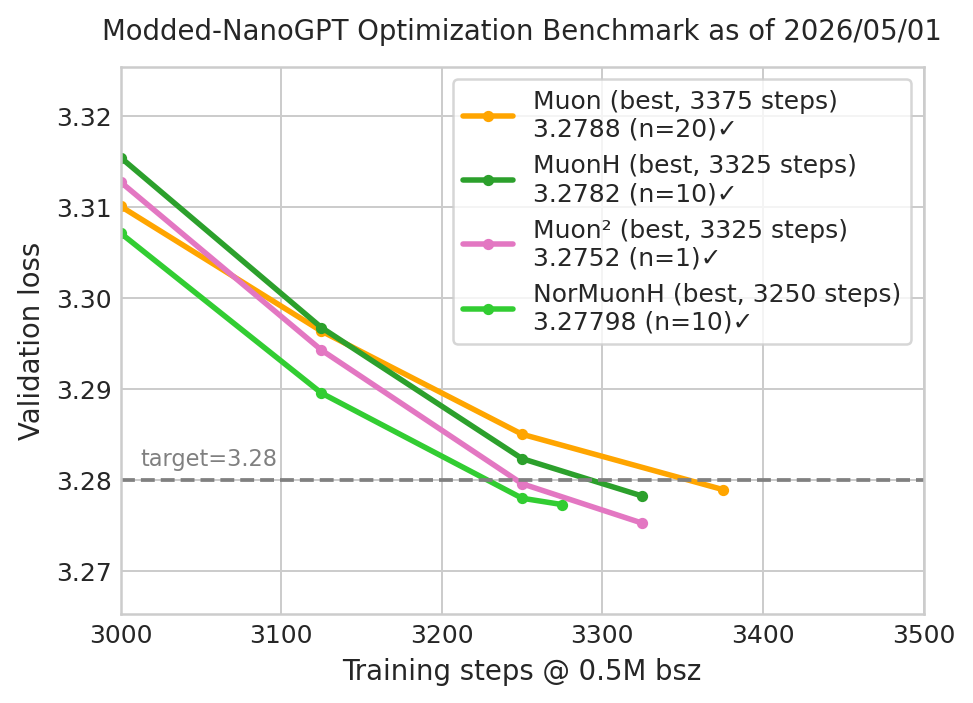
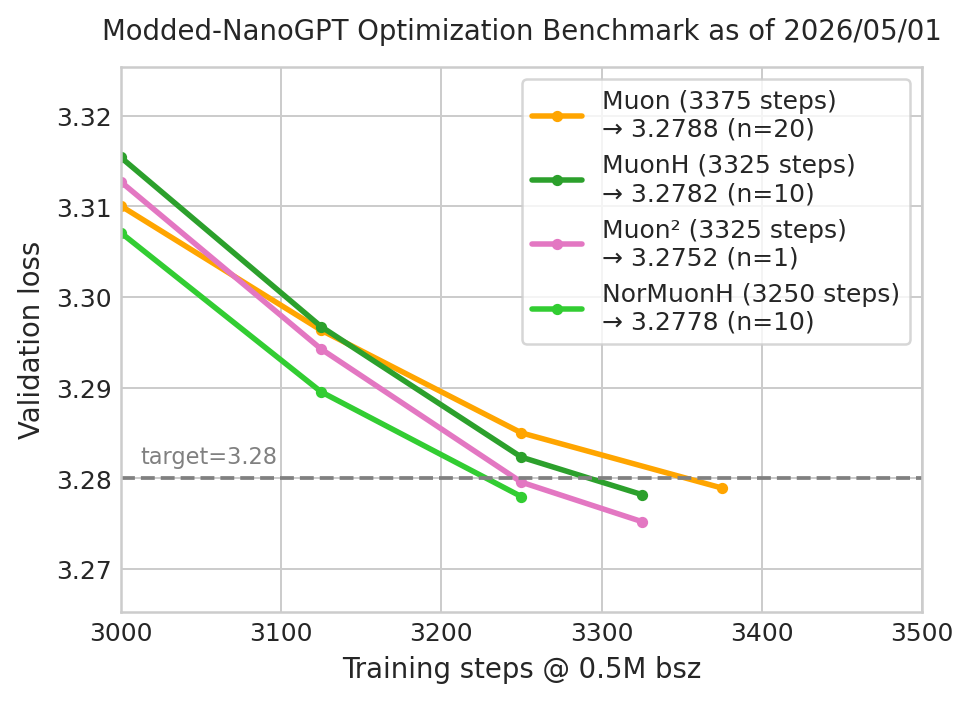
.

diff --git a/records/track_3_optimization/make_figures.py b/records/track_3_optimization/make_figures.py
@@ -9,12 +9,12 @@ import matplotlib.pyplot as plt
 logfiles = {
     # key: number in README results history
     # value: (label, color)
-    6: ('Muon (best, 3375 steps)', '#ffa500'),
-    2: ('AdamW (best, 5625 steps)', '#1f77b4'),
-    5: ('MuonH (best, 3325 steps)', '#2ca02c'),
-    4: ('AdamH (best, 4875 steps)', '#9467bd'),
-    7: ('Muon² (best, 3325 steps)', '#e377c2'),
-    8: ('NorMuonH (best, 3250 steps)', '#32CD32'),
+    6: ('Muon', '#ffa500'),
+    2: ('AdamW', '#1f77b4'),
+    5: ('MuonH', '#2ca02c'),
+    4: ('AdamH', '#9467bd'),
+    7: ('Muon²', '#e377c2'),
+    8: ('NorMuonH', '#32CD32'),
 }
 readme_rows = {}
 row_pattern = re.compile(
@@ -83,9 +83,17 @@ for number, (label, color) in logfiles.items():
     if not runs:
         raise RuntimeError(f'No loss curve found for results/{logfile}.txt')
     steps, losses = average_runs(runs)
+    kept_points = [
+        (step, loss)
+        for step, loss in zip(steps, losses)
+        if step <= steps_to_target
+    ]
+    if not kept_points:
+        raise RuntimeError(f'No loss curve points found at or before step {steps_to_target} for results/{logfile}.txt')
+    steps, losses = zip(*kept_points)
 
     max_step = max(max_step, max(steps))
-    results[number] = (label, steps_to_target, evidence, steps, losses, color)
+    results[number] = (f'{label} ({steps_to_target} steps)', steps_to_target, evidence, steps, losses, color)
 
 
 # Generate figure
@@ -139,13 +147,14 @@ zoom_losses = [
 ]
 fig, ax = plt.subplots(figsize=(5.5, 4), dpi=180)
 for label, _, evidence, steps, losses, color in zoom_results:
+    evidence = re.sub(r'[✓✔✅]', '', evidence).strip()
     ax.plot(
         steps,
         losses,
         marker='o',
         markersize=3.5,
         linewidth=2.2,
-        label=f'{label}\n{evidence}',
+        label=f'{label}\n→ {evidence}',
         color=color,
     )
 ax.axhline(3.28, color='gray', linestyle='--', linewidth=1.5)

diff --git a/records/track_3_optimization/README.md b/records/track_3_optimization/README.md
@@ -35,7 +35,7 @@ which the PR appeared.
 | 5 | 3325 | 3.2782 (n=10)✓ | [MuonH](https://psychedelic-sunstone-851.notion.site/Fantastic-Pretraining-Optimizers-and-Where-to-Find-Them-2-1-Hyperball-Optimization-2e924306e6f280e7a5ffee00eb40a0dd) (Muon + hyperball constraint on hidden matrices) with per-module init std (attn.proj std=.026, mlp.proj std=.031, mlp.fc std=.031, qkv default), lr=.018 h_cooldown_frac=1.0 aux_cooldown_frac=.4 | 2026/04/30 | [log](results/20260430_muonh/9319c798-6643-464a-b407-b05468e468f5.txt) | [PR](https://github.com/KellerJordan/modded-nanogpt/pull/272) | @kaiyue-wen |
 | 6 | 3375 | 3.2788 (n=20)✓ | Muon with aux Adam, lr=.025 wd=.025 | 2026/05/01 | [log](results/51ece938-03c5-4343-8dcc-3f3336b07008.txt) | N/A | @nilin, @alint77 |
 | 7 | 3325 | 3.2752 (n=1)✓ | [Muon²](https://arxiv.org/abs/2604.09967) with aux Adam, lr=.10 wd=.0125 β₂=.95 ε=1e-10 | 2026/04/29 | [log](results/20260501_muonsq/bb903816-ea27-4f5f-8028-c963d38c6a7f.txt) | [PR](https://github.com/KellerJordan/modded-nanogpt/pull/266) | @wilsoncwu |
-| 8 | 3250 | 3.27798 (n=10)✓ | [NorMuon](https://arxiv.org/abs/2510.05491)[H](https://psychedelic-sunstone-851.notion.site/Fantastic-Pretraining-Optimizers-and-Where-to-Find-Them-2-1-Hyperball-Optimization-2e924306e6f280e7a5ffee00eb40a0dd) (Muon NS direction + Adafactor-style row/col variance preconditioning, then hyperball constraint on hidden matrices) with per-module init std (attn.proj std=.026, mlp.proj std=.031, mlp.fc std=.031, qkv default), lr=.018 mu=0.95 beta2=0.95 h_cooldown_frac=1.0 aux_cooldown_frac=.4 | 2026/04/30 | [log](results/20260430_normuonh/f45b5dcf-16bb-4e83-b5c7-4ef4981f0e9f.txt)| [PR](https://github.com/KellerJordan/modded-nanogpt/pull/273) | @kaiyue-wen |
+| 8 | 3250 | 3.2778 (n=10)✓ | [NorMuon](https://arxiv.org/abs/2510.05491)[H](https://psychedelic-sunstone-851.notion.site/Fantastic-Pretraining-Optimizers-and-Where-to-Find-Them-2-1-Hyperball-Optimization-2e924306e6f280e7a5ffee00eb40a0dd) (Muon NS direction + Adafactor-style row/col variance preconditioning, then hyperball constraint on hidden matrices) with per-module init std (attn.proj std=.026, mlp.proj std=.031, mlp.fc std=.031, qkv default), lr=.018 mu=0.95 beta2=0.95 h_cooldown_frac=1.0 aux_cooldown_frac=.4 | 2026/04/30 | [log](results/20260430_normuonh/f45b5dcf-16bb-4e83-b5c7-4ef4981f0e9f.txt)| [PR](https://github.com/KellerJordan/modded-nanogpt/pull/273) | @kaiyue-wen |
 | 9 | 3250 | 3.2771 (n=8)✓ | NorMuon with aux Adam + u/w-floor (wd-free strategy that clamps ‖u‖\_F / ‖w‖\_F to 0.35), lr=.0375 | 2026/04/29 | [log](results/20260501_skylight001/f78af80a-2ba3-4cf7-b9f7-e6e56ff2c54d.txt) | [PR](https://github.com/KellerJordan/modded-nanogpt/pull/274) | @kumarkrishna |
 
 <table>
